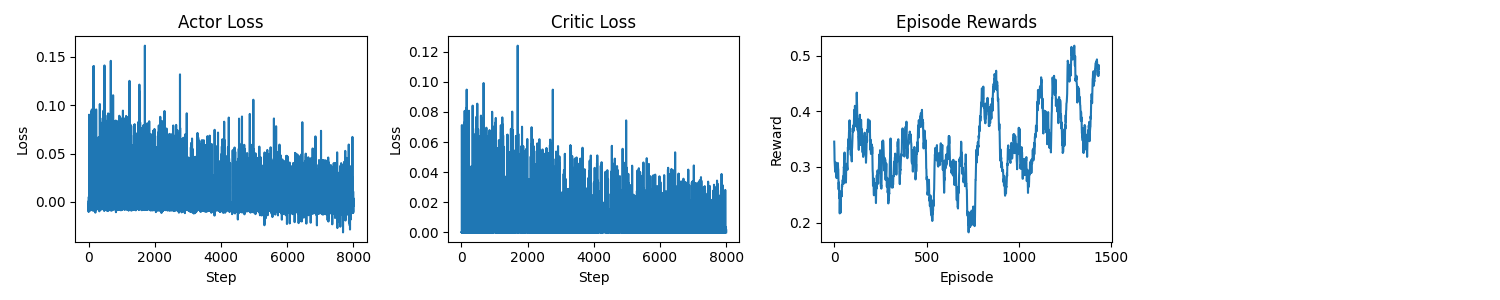
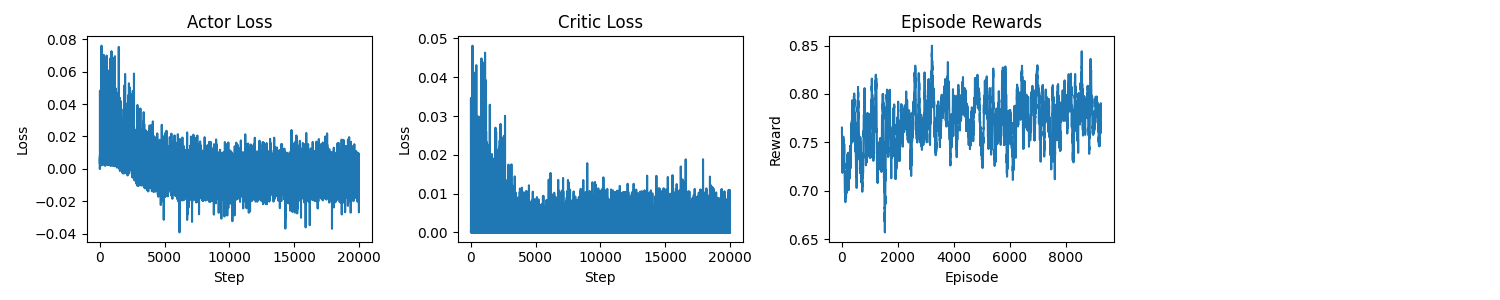
prog

diff --git a/model/minigrid/main.py b/model/minigrid/main.py
@@ -21,7 +21,7 @@ HIDDEN_SIZE = 128
 NUM_ENVS = 25
 NUM_ACTIONS = 3  # MiniGrid has 3 actions: left, right, forward
 ACTOR_LR = 1e-6
-CRITIC_LR = 1e-6
+CRITIC_LR = 2e-6
 NUM_STEPS = 20000
 EVAL_FREQ = 19000
 WINDOW_SIZE = 50
@@ -130,8 +130,7 @@ def main() -> None:
     obs = torch.tensor(obs, dtype=torch.float32)
 
     # Performance tracking
-    episode_rewards = []  # Remove maxlen to track all episodes
-    success_rate = []    # Remove maxlen to track all episodes
+    episode_rewards = []
     actor_losses = []
     critic_losses = []
     total_steps = 0
@@ -141,6 +140,11 @@ def main() -> None:
     # NOTE: uncomment for dense reward
     last_agent_pos = [None for _ in range(NUM_ENVS)]
     for step in tqdm(range(NUM_STEPS)):
+        if step == 5000:
+            # lower learning rate
+            optimizer_actor.param_groups[0]['lr'] = 1e-7
+            optimizer_critic.param_groups[0]['lr'] = 2e-7
+
         # Actor logic
         probs = actor(obs)
         dist = Categorical(probs)
@@ -159,10 +163,10 @@ def main() -> None:
         for i in range(NUM_ENVS):
             if 8 in next_obs[i]:
                 rewards[i] += 0.005
-            if last_agent_pos[i] is not None:
-                if agent_pos[i] == last_agent_pos[i]:
-                    rewards[i] -= 0.01
-            last_agent_pos[i] = agent_pos[i]
+            # if last_agent_pos[i] is not None:
+            #     if agent_pos[i] == last_agent_pos[i]:
+            #         rewards[i] -= 0.01
+            # last_agent_pos[i] = agent_pos[i]
 
         # Process the new observations
         next_obs = np.stack([one_hot_encode_observation(o) for o in next_obs])
@@ -176,7 +180,6 @@ def main() -> None:
         for i in range(NUM_ENVS):
             if dones[i] or truncs[i]:  # type: ignore
                 episode_rewards.append(current_rewards[i])
-                success_rate.append(1.0 if current_rewards[i] > 0.0 else 0.0)
                 current_rewards[i] = 0
                 episode_steps[i] = 0
 
